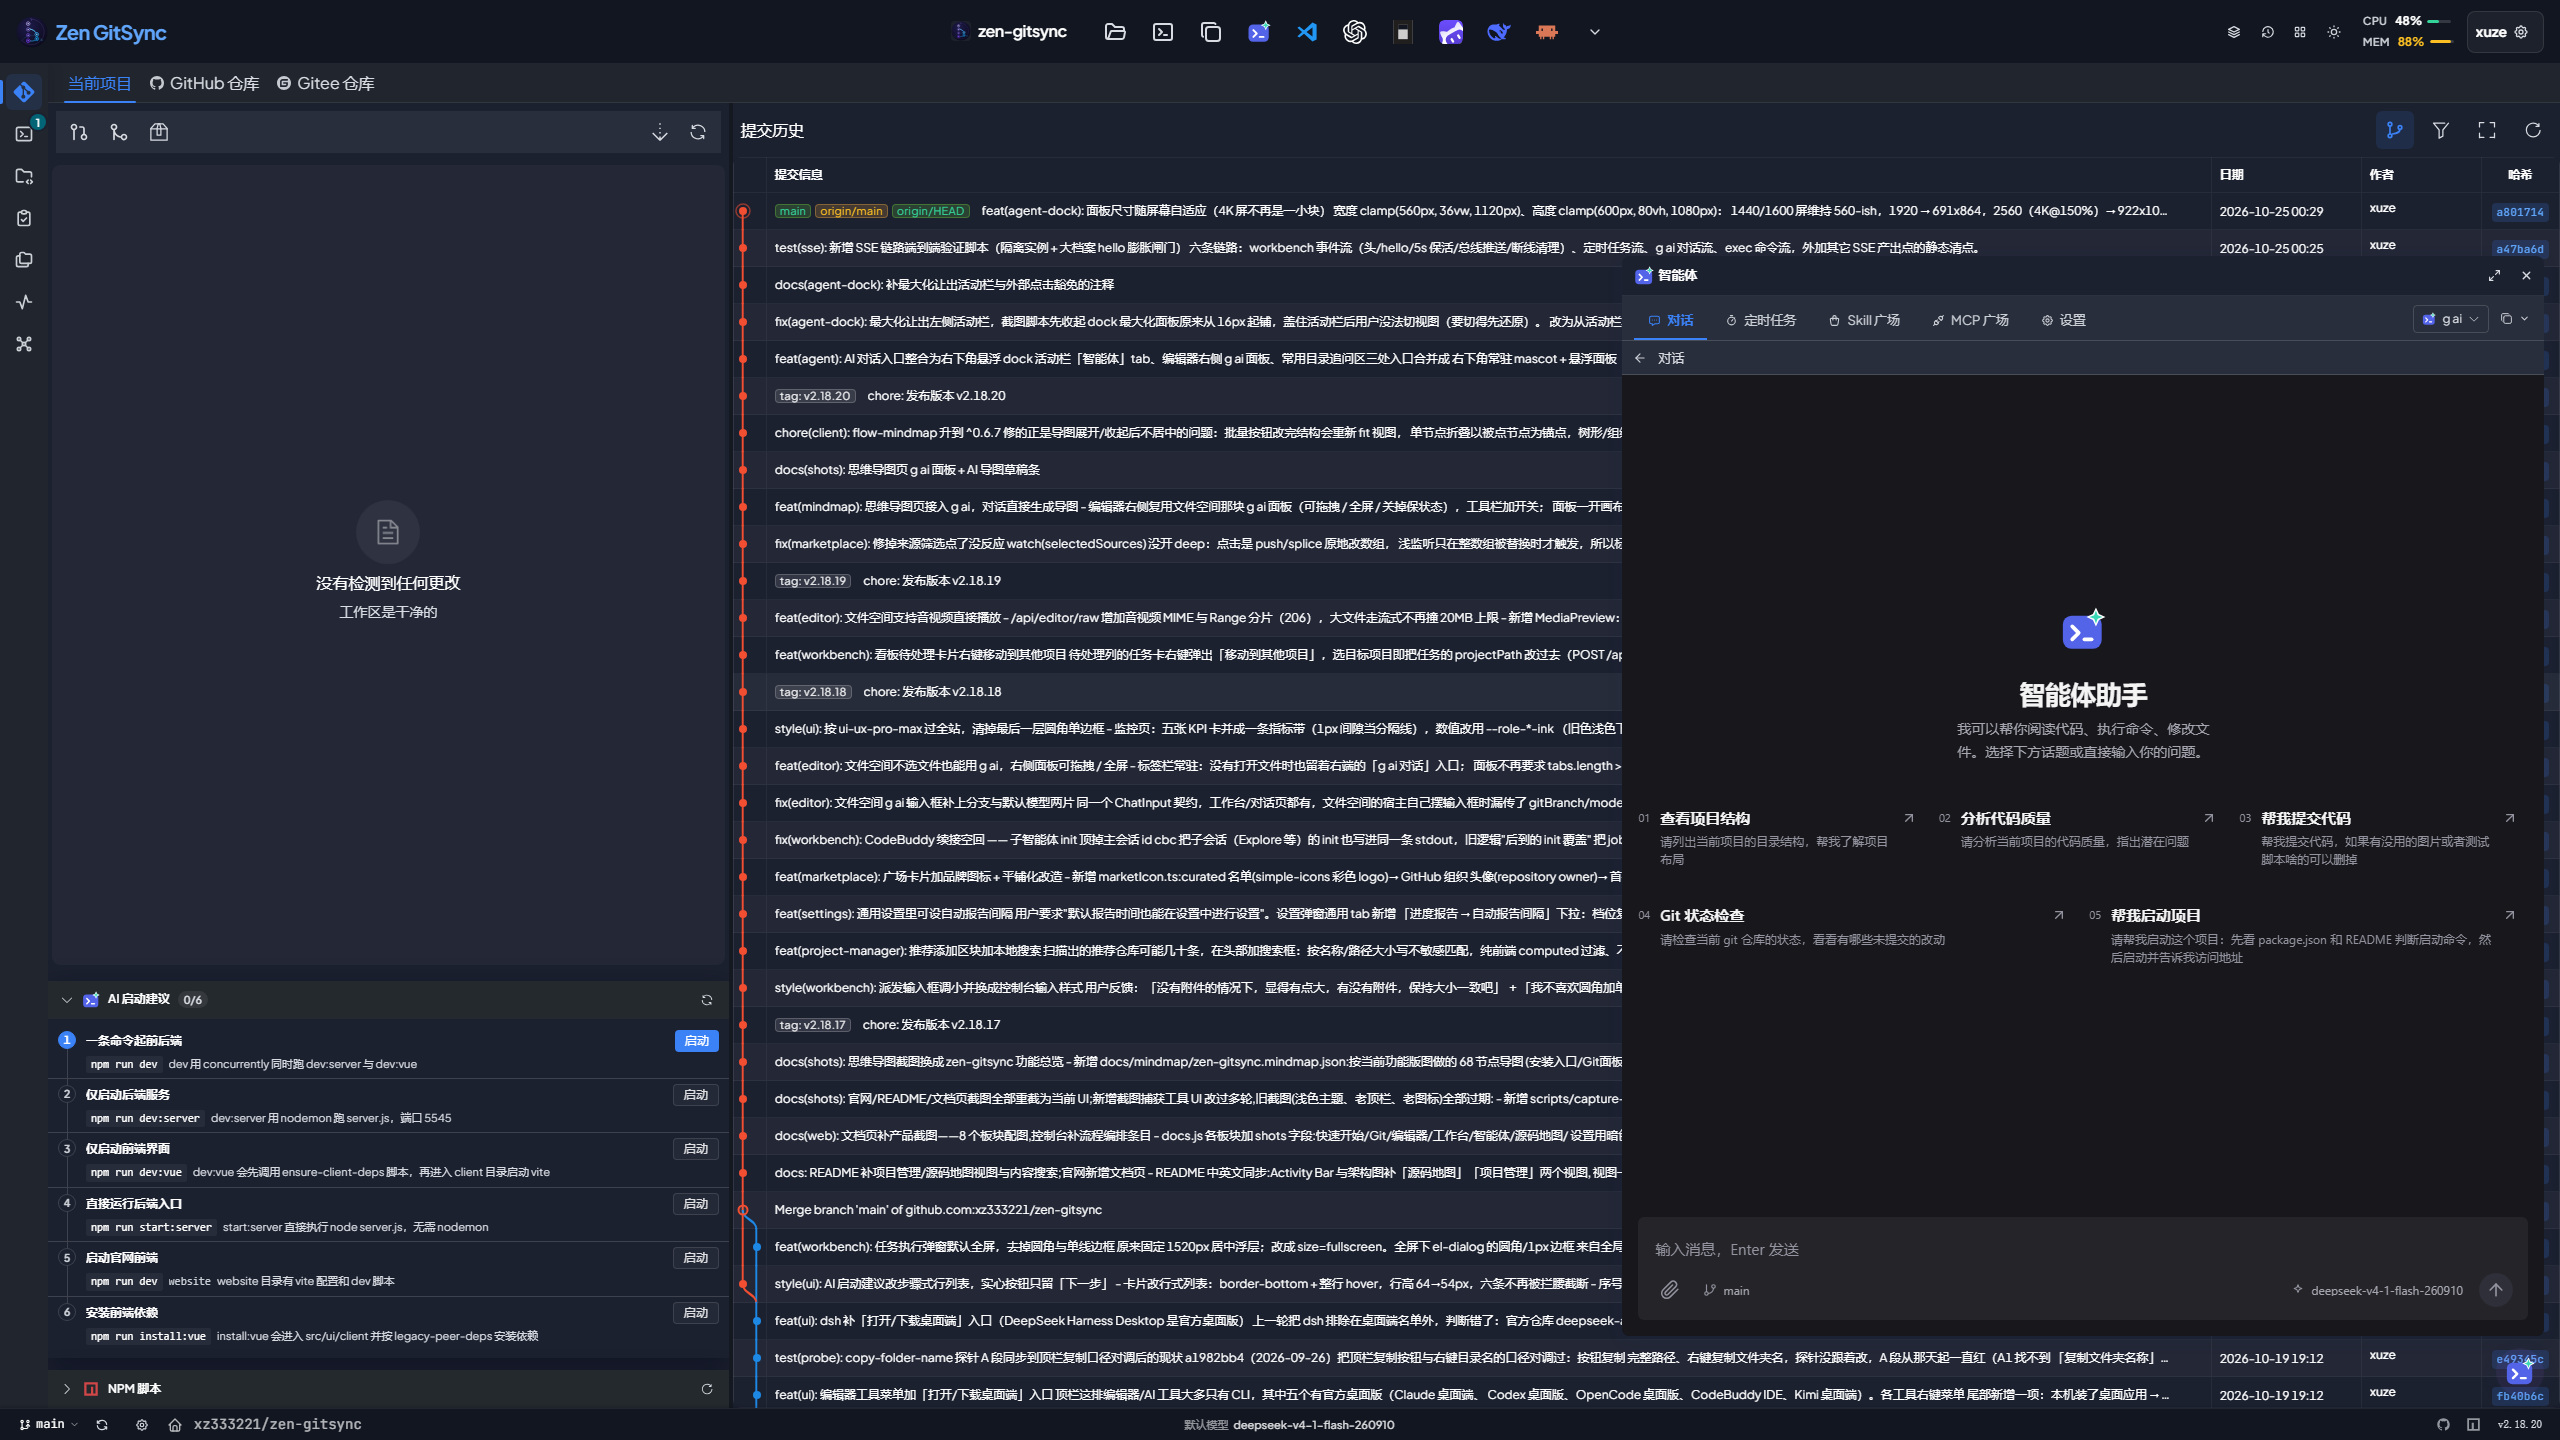
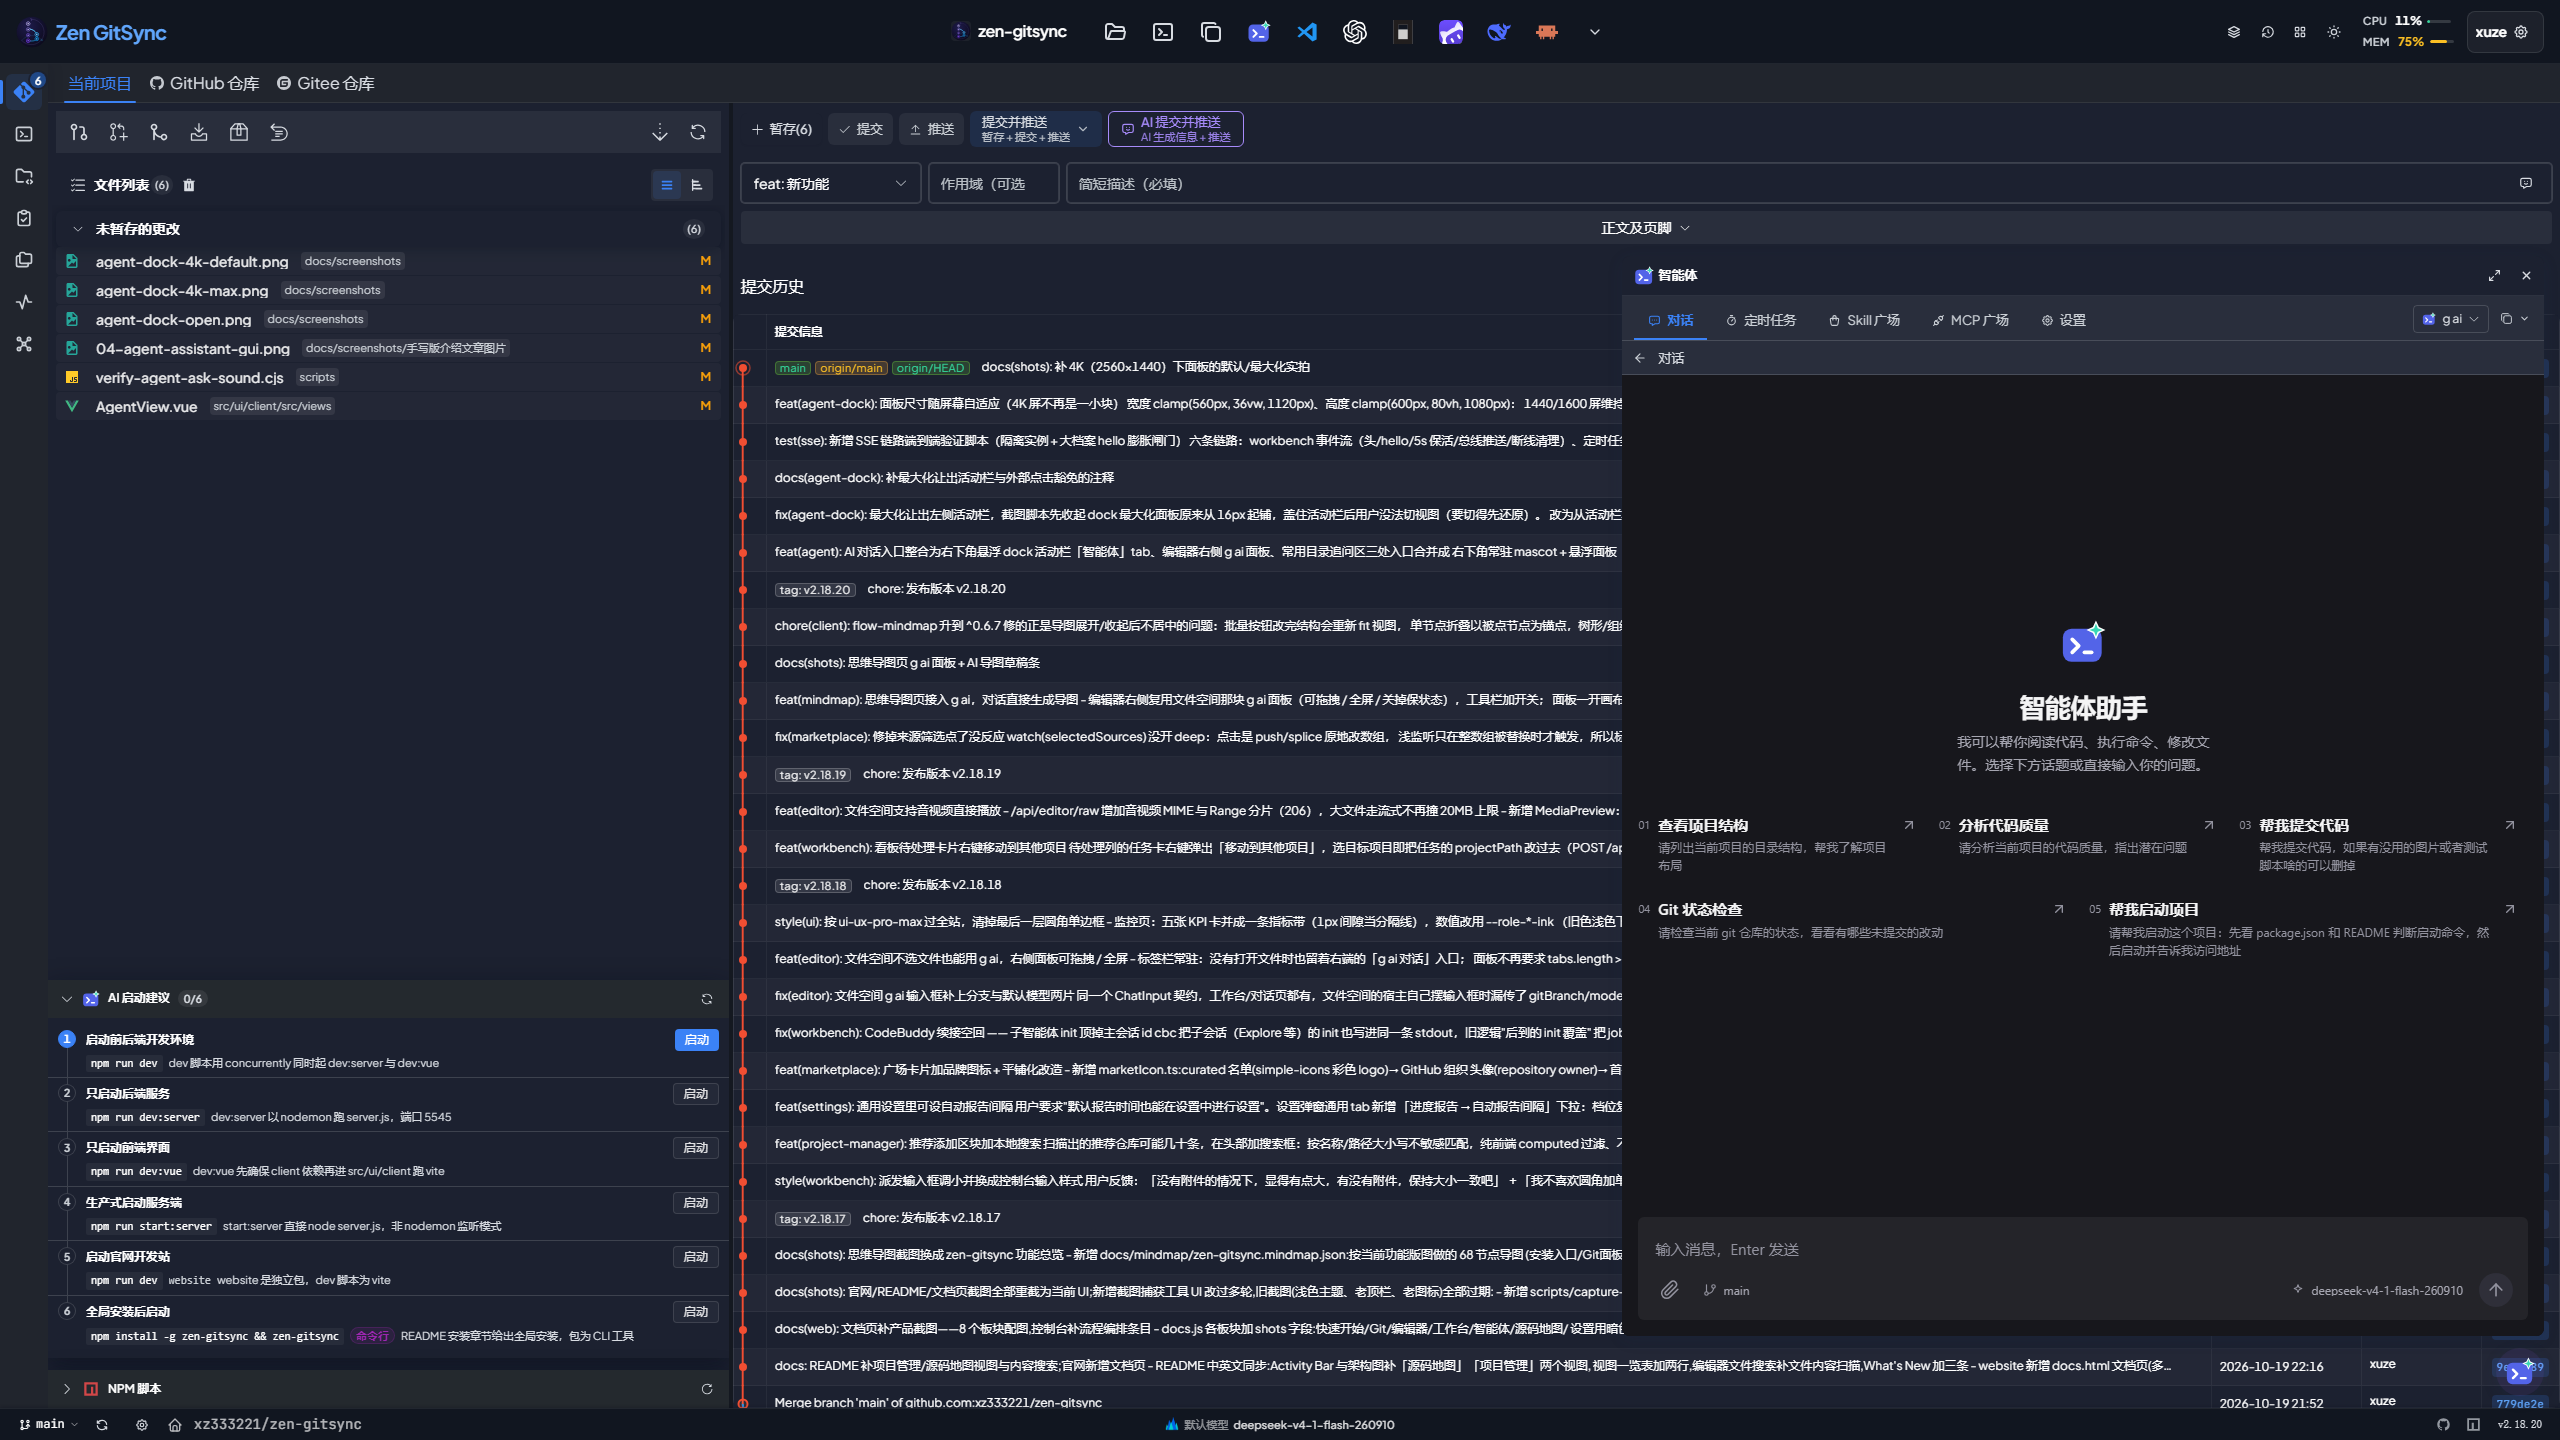
style(agent-view): 预设问题卡再收紧内边距（16→6/10）
用户反馈「组件库内置的提示词样式有点丑，少点padding」。上一轮已把库里的
「白底 + 1px 描边 + 圆角」卡片压成平铺 + hover 底，但内边距还是库按独立卡片配的
16px：单卡 ~105px 高，hover 底是一大块，看着空。

- .acu-preset-q：padding 12/10/12/0 → 6/10/6/0（单卡 ~105 → 73px），
  gap 10 → 8，正文行距 3 → 2，圆角改 --radius-base
- 顺带修 verify:agent-ask-sound 的归因：ERR_CONNECTION_RESET（外网 CDN 的
  provider logo 拉不到）没有 response，只在 requestfailed 里出现，原来会被
  判成本轮引入的 console 错误（ERR_ABORTED 仍排除）

diff --git a/src/ui/client/src/views/AgentView.vue b/src/ui/client/src/views/AgentView.vue
@@ -997,11 +997,18 @@ defineExpose({
   min-width: 0;
   /* 库里每张预设是「白底 + 1px 描边 + 圆角」的小卡片，五张并排时边界比内容还抢眼
      （用户点名不要这种形态）。宿主按广场的写法压成平铺块：去底、去描边，
-     hover 才铺一层淡底。序号保留 —— 它承担「一页目录」的定位，不是重复信息。 */
+     hover 才铺一层淡底。序号保留 —— 它承担「一页目录」的定位，不是重复信息。
+     内边距比库里的 16px 收到 6/10：库的留白是按「独立卡片」配的，压成平铺之后
+     同样的留白会显得空（用户 2026-10-25 反馈「有点丑，少点padding」）。 */
   background: transparent;
   border: 0;
-  border-radius: var(--radius-lg);
-  padding: 12px 10px 12px 0;
+  border-radius: var(--radius-base);
+  padding: 6px 10px 6px 0;
+  gap: 8px;
+}
+/* 标题行与说明行的间距也从库里的 3px 收到 2px，整块更紧凑 */
+.agent-chat-host :deep(.acu-welcome-grid > .acu-preset-q .acu-preset-q-body) {
+  gap: 2px;
 }
 .agent-chat-host :deep(.acu-welcome-grid > .acu-preset-q:hover) {
   background: var(--bg-hover);
